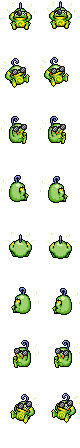
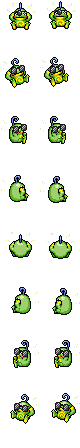
PoliRad sprites: cover both eyes on side and diagonal views
- Poliwhirl's side views show its far eye past the face, so they now get both lenses: the near
  one and the far one seen edge on, joined at the bridge, the far one overhanging the face.
- Poliwhirl's down-left view: the far lens moved over the far eye (wider bridge).
- Politoed's diagonal lenses are a pixel taller so the lower eye is fully covered.
- A normal (non-spin) frame never ends up without glasses.

Claude-Session: https://claude.ai/code/session_019L7iVyevzrSsZHNd1CijFN

diff --git a/scripts/poli_shades/shades.py b/scripts/poli_shades/shades.py
@@ -95,6 +95,25 @@ def three_q(lw, lh, bridge, ox, oy, tilt, toward, glint=1, lift=1):
                     if out.get(q, K) == K: out[q] = K; break
     return place_at(out, ox, oy)
 
+def duo(near_w, far_w, lh, ox, oy, toward, arm=5):
+    """A side view where the far eye still shows past the face: the near lens, and the far lens seen
+    edge on (narrow) sharing its frame edge as the bridge, then the arm back from the near lens.
+    ox is the drawing's left edge (lenses only)."""
+    near = lens(0, 0, near_w, lh, glint=1, rim=False, shine_from=1, gap=1)
+    far = lens(near_w - 1, 0, far_w, lh, glint=1, rim=False, shine_from=1, gap=1)
+    px = {**far, **near}
+    for y in (1, 2):                     # the bridge: both frame edges joined, two rows deep
+        px[(near_w - 1, y)] = K
+    for k in range(1, arm + 1): px[(-k, 1)] = K
+    w = near_w + far_w - 1
+    # the far lens may run past the face's edge (it is in front of the far eye): always drawn
+    force = {q for q in far if q[0] > near_w - 1}
+    if toward == 'l':
+        px = {(w - 1 - x, y): c for (x, y), c in px.items()}
+        force = {(w - 1 - x, y) for (x, y) in force}
+    g = Glasses(px); g.force = frozenset(force)
+    return place_at(g, ox, oy)
+
 def prof(lw, lh, ox, oy, toward, arm=5):
     return place_at(profile_px(lw, lh, toward, arm), ox, oy)
 
@@ -103,11 +122,11 @@ def prof(lw, lh, ox, oy, toward, arm=5):
 SPEC = {
     '0060': {0: front(6, 5, 1, -7, -5), 1: three_q(6, 5, 0, -8, -4, 2, 'r'), 7: three_q(6, 5, 0, -5, -4, 2, 'l'),
              2: prof(5, 5, -6, -3, 'r'), 6: prof(5, 5, 3, -3, 'l')},
-    '0061': {0: front(7, 6, 3, -9, -4), 1: three_q(7, 6, 1, -9, -3, 4, 'r'), 7: three_q(7, 6, 1, -4, -3, 3, 'l'),
-             2: prof(5, 6, -4, -2, 'r'), 6: prof(5, 6, 1, -2, 'l')},
+    '0061': {0: front(7, 6, 3, -9, -4), 1: three_q(7, 6, 1, -9, -3, 4, 'r'), 7: three_q(7, 6, 3, -6, -3, 3, 'l'),
+             2: duo(6, 4, 6, -4, -2, 'r'), 6: duo(6, 5, 6, -3, -2, 'l')},
     '0062': {0: front(7, 5, 5, -10, -5), 1: three_q(7, 5, 2, -10, -3, 1, 'r'), 7: three_q(7, 5, 2, -7, -3, 1, 'l'),
              2: prof(5, 5, -5, -1, 'r'), 6: prof(5, 5, 3, -1, 'l')},
-    '0186': {0: front(6, 6, 3, -8, -8), 1: three_q(6, 6, 2, -9, -7, 1, 'r'), 7: three_q(6, 6, 2, -5, -7, 1, 'l'),
+    '0186': {0: front(6, 6, 3, -8, -8), 1: three_q(6, 7, 2, -9, -7, 1, 'r'), 7: three_q(6, 7, 2, -5, -7, 1, 'l'),
              2: prof(5, 6, -4, -7, 'r'), 6: prof(5, 6, 2, -7, 'l')},
 }
 FACINGS = (0, 1, 7, 2, 6)
@@ -193,7 +212,7 @@ def best_for(frame, h, patches, facings, R):
                 if best is None or sc < best[0]: best = (sc, c, dx, dy)
     return best
 
-def draw(im, ox, oy, fw, fh, hx, hy, px, facing, spin):
+def draw(im, ox, oy, fw, fh, hx, hy, px, facing, spin, strict=True):
     p = im.load()
     def opaque(x, y): return 0 <= x < fw and 0 <= y < fh and p[ox + x, oy + y][3] > 0
     force = getattr(px, 'force', frozenset())
@@ -201,7 +220,7 @@ def draw(im, ox, oy, fw, fh, hx, hy, px, facing, spin):
     off_face = [(x, y) for (x, y) in cells if not opaque(hx + x, hy + y) and (x, y) not in force]
     # front and profile glasses sit on the face; a three-quarter pair may overhang the far cheek
     allow = len(cells) // 3 if facing in (1, 7) else max(2, len(cells) // 8)
-    if len(off_face) > allow: return False
+    if strict and len(off_face) > allow: return False
     # in a spin, only where an eye is under the lenses: a white, or a dark pixel inside the body
     # (not the outline), so the back of the head never gets glasses
     def eye(x, y):
@@ -249,7 +268,7 @@ def main(dex):
                 if not ok and not spin and d in spec:
                     # never a bare frame in a normal move: the row's own glasses where its face matches best
                     sc2, c2, dx2, dy2 = best_for(frame, h, patches, [d], 6)
-                    ok = draw(im, f * fw, d * fh, fw, fh, h[0] + dx2, h[1] + dy2, spec[d], d, False)
+                    ok = draw(im, f * fw, d * fh, fw, fh, h[0] + dx2, h[1] + dy2, spec[d], d, False, strict=False)
                 done += ok; miss += not ok
                 if not ok and d in spec and not spin: print('  BARE', dex, name, 'row', d, 'frame', f)
         im.save(f'{dst}/{name}-Anim.png')
